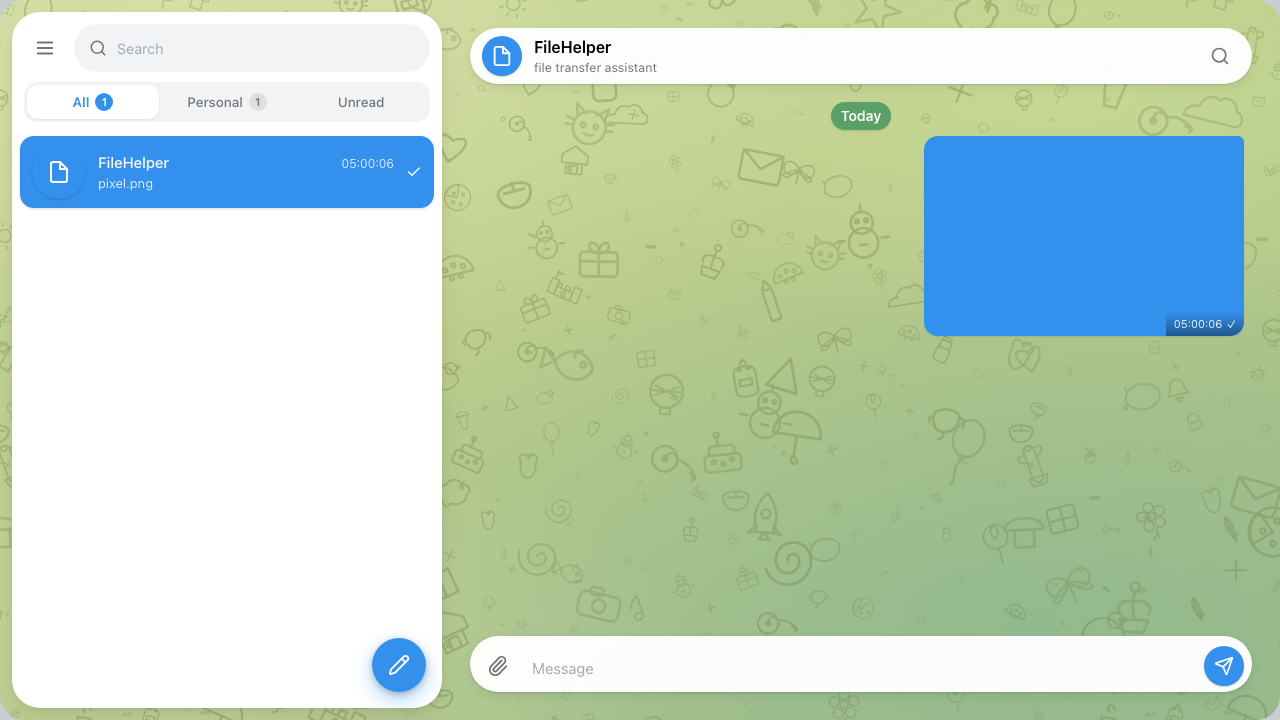
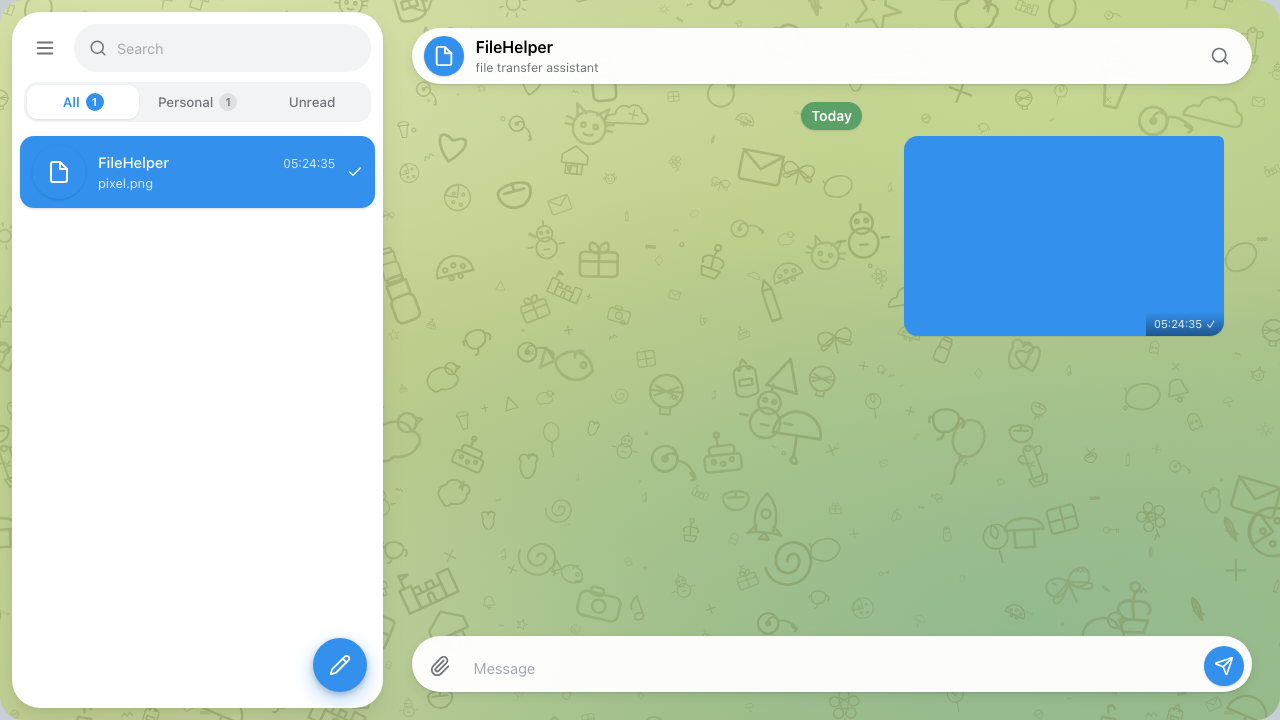
ui: sidebar card = 29% of window width (clamp 330-520px); version 2.0.2

diff --git a/web/tests/e2e/tg-geometry.spec.ts b/web/tests/e2e/tg-geometry.spec.ts
@@ -149,13 +149,14 @@ test.describe('TG pixel-match geometry', () => {
 
     const { h, r, c, s, ch } = await boxes(page);
 
-    // ── Shell: 12px outer gutter, rounded panes, no page scrollbar ──
+    // ── Shell: 12px outer gutter, sidebar = 29% of window (459.4px at
+    //    1584), no page scrollbar ──
     expect(s.x).toBeCloseTo(12, 0);
     expect(s.y).toBeCloseTo(12, 0);
-    expect(s.width).toBeCloseTo(430, 1);
+    expect(s.width).toBeCloseTo(459.4, 1);
     expect(s.height).toBeCloseTo(936, 1);
-    expect(ch.x).toBeCloseTo(454, 0);
-    expect(ch.width).toBeCloseTo(1118, 1);
+    expect(ch.x).toBeCloseTo(483.4, 0);
+    expect(ch.width).toBeCloseTo(1088.6, 1);
 
     // ── Floating header pill ──
     expect(h.height).toBeCloseTo(56, 1);
@@ -172,7 +173,7 @@ test.describe('TG pixel-match geometry', () => {
 
     // ── Centered message rail ──
     expect(r.width).toBeCloseTo(800, 1);
-    expect(r.x).toBeCloseTo(613, 1);
+    expect(r.x).toBeCloseTo(627.7, 1);
 
     // ── Shared center axis: header == rail == composer (±1px) ──
     const hcx = h.x + h.width / 2;
@@ -385,10 +386,11 @@ test.describe('TG pixel-match geometry', () => {
     await sendText(page, 'small viewport probe');
 
     const { h, r, c, ch } = await boxes(page);
-    // chat width = 1280 - 24 - 430 - 12 = 814; pill width = min(840, 782) = 782
-    expect(h.width).toBeCloseTo(782, 1);
-    expect(c.width).toBeCloseTo(782, 1);
-    expect(r.width).toBeCloseTo(782, 1);
+    // sidebar = 29% of 1280 = 371.2; chat width = 1280 - 24 - 371.2 - 12 =
+    // 872.8; pills hit the 840 cap (872.8-32 = 840.8 > 840)
+    expect(h.width).toBeCloseTo(840, 1);
+    expect(c.width).toBeCloseTo(840, 1);
+    expect(r.width).toBeCloseTo(800, 1);
     expect(Math.abs(h.x + h.width / 2 - (ch.x + ch.width / 2))).toBeLessThanOrEqual(1);
     expect(Math.abs(r.x + r.width / 2 - (ch.x + ch.width / 2))).toBeLessThanOrEqual(1);
     expect(Math.abs(c.x + c.width / 2 - (ch.x + ch.width / 2))).toBeLessThanOrEqual(1);

diff --git a/web/tests/e2e/e2e.spec.ts b/web/tests/e2e/e2e.spec.ts
@@ -726,7 +726,7 @@ test.describe('FileHelper v2.0 E2E', () => {
     }
   });
 
-  test('lock: returns to Enter Code, re-login restores history; About shows 2.0.0', async ({ page }) => {
+  test('lock: returns to Enter Code, re-login restores history; About shows the server version', async ({ page }) => {
     await page.setViewportSize({ width: 1584, height: 960 });
     const server = await startServer();
     const base = `http://127.0.0.1:${server.port}`;
@@ -735,10 +735,11 @@ test.describe('FileHelper v2.0 E2E', () => {
     const msg = `locked-msg-${Date.now()}`;
     await sendText(page, msg);
 
-    // About → version comes from the server info endpoint.
+    // About → version comes from the server info endpoint (never hardcode).
+    const info = await (await fetch(`${base}/api/v1/info`)).json();
     await page.click('button[aria-label="Open menu"]');
     await page.locator('div[class*="menu"] button', { hasText: 'About' }).click();
-    await expect(page.locator('text=Version 2.0.0').first()).toBeVisible({ timeout: 5000 });
+    await expect(page.locator(`text=Version ${info.version}`).first()).toBeVisible({ timeout: 5000 });
     await page.keyboard.press('Escape');
 
     // Lock → back to the CODE prompt.

diff --git a/web/src/styles/tokens.scss b/web/src/styles/tokens.scss
@@ -27,7 +27,10 @@
   --overlay-background: rgba(0, 0, 0, 0.4);
 
   // ── Telegram Web K shell tokens ─────────────────────────────
-  --sidebar-width: 430px;
+  // Sidebar island width: 29% of the total window width (Telegram's
+  // left-column ratio), clamped so small desktops keep a usable list
+  // and ultra-wide screens don't balloon.
+  --sidebar-width: clamp(330px, 29vw, 520px);
   --tg-content-width: 840px;
   --tg-message-width: 800px;
   --tg-chat-gutter: 16px;

diff --git a/CHANGELOG.md b/CHANGELOG.md
@@ -3,6 +3,15 @@
 All notable changes to FileHelper are documented here. The project follows
 [Semantic Versioning](https://semver.org/).
 
+## 2.0.2 — 2026-08-30
+
+### Changes
+
+- **Sidebar width is now proportional** — the floating sidebar card is 29%
+  of the total window width (`clamp(330px, 29vw, 520px)`), matching the
+  Telegram left-column ratio instead of a fixed 430px. All desktop
+  screenshots regenerated.
+
 ## 2.0.1 — 2026-08-30
 
 ### Fixes
